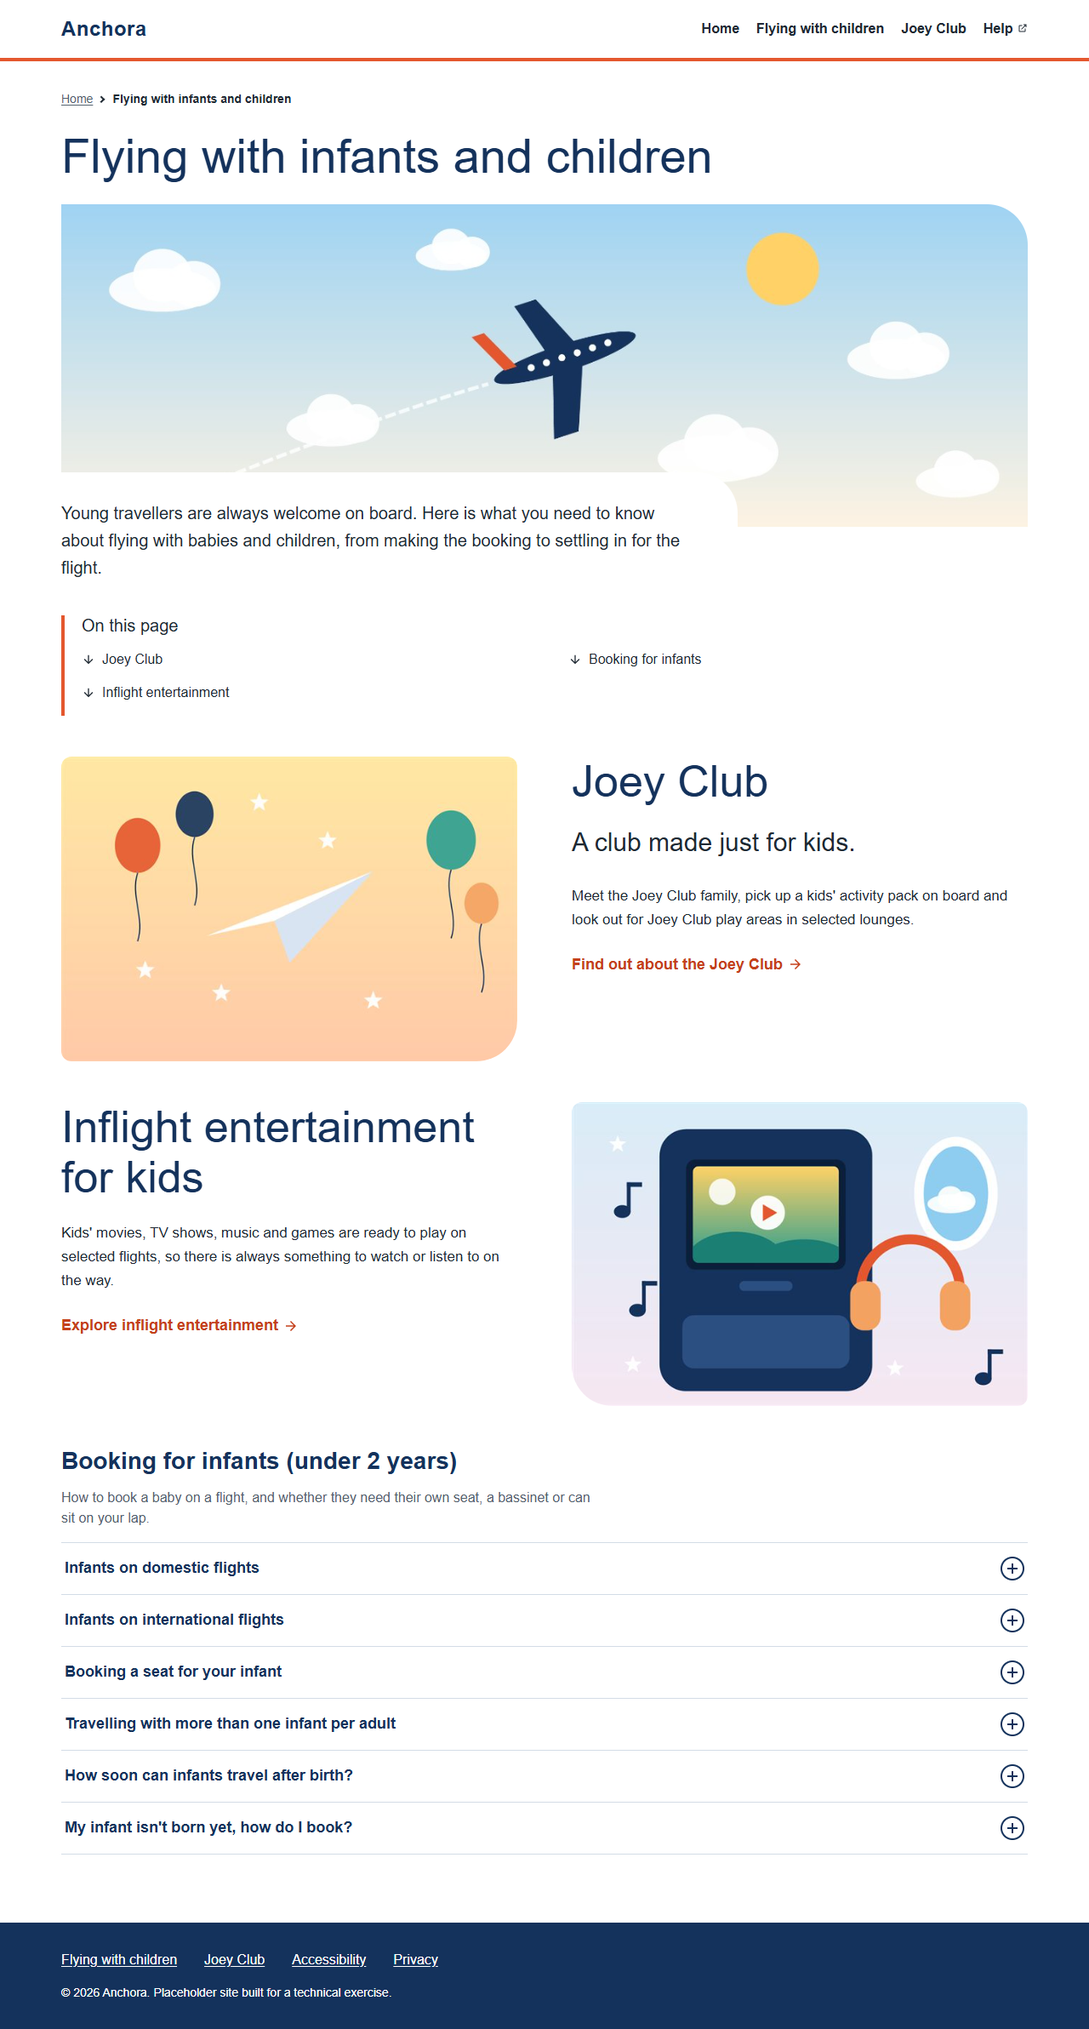
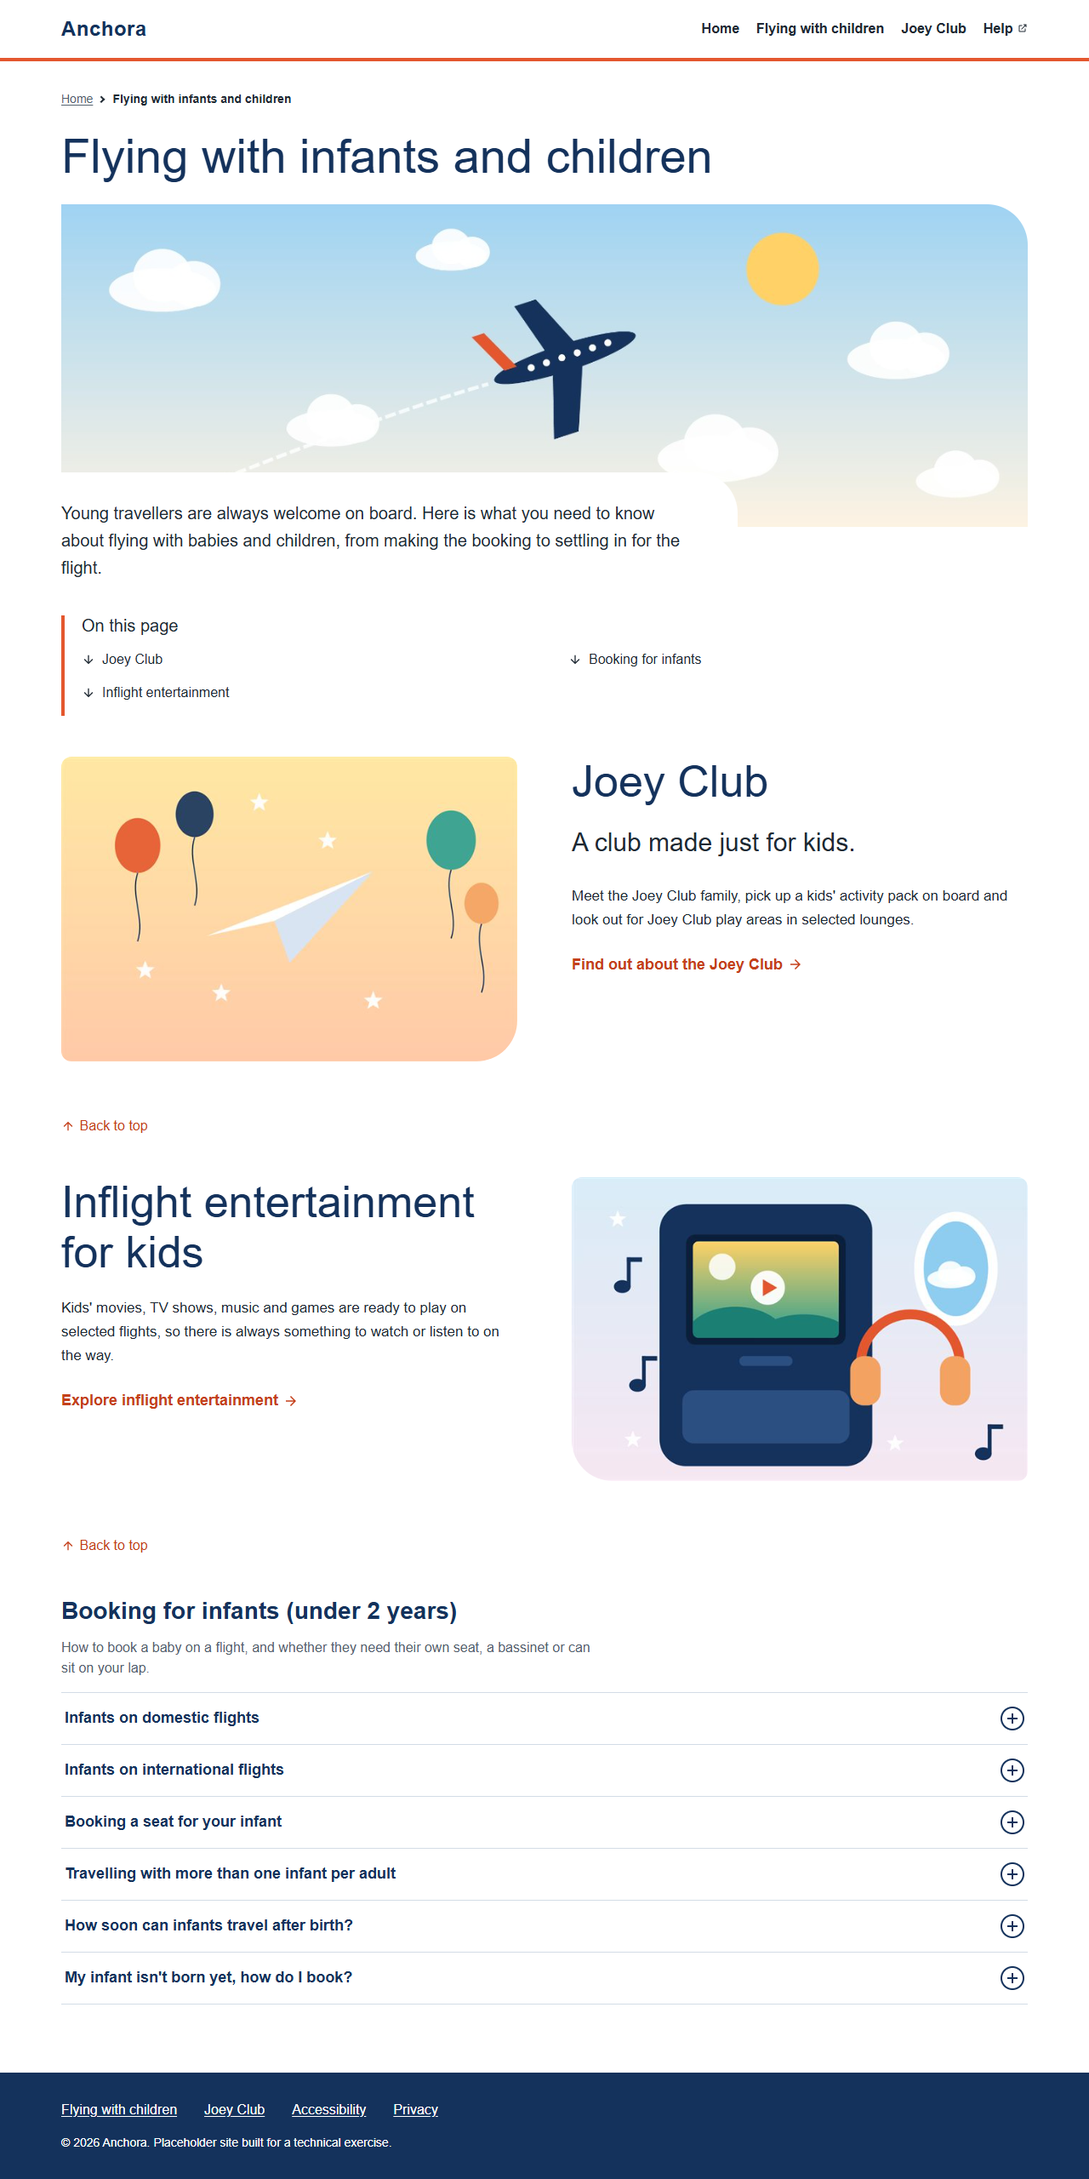
Add a Back to top link option to the teaser
Authors tick "Show a Back to top link" on the teaser's Link tab and can
change its label (default "Back to top"). The link is a plain href="#top"
under both columns, so no JavaScript is needed. Both teasers on the
example page have it on. Adds 3 model tests (46 in total) and updates the
README, AUTHORING guide and screenshots.

diff --git a/ui.frontend/src/main/webpack/components/_teaser.scss b/ui.frontend/src/main/webpack/components/_teaser.scss
@@ -86,3 +86,27 @@
         text-decoration: underline;
     }
 }
+
+// Spans the full row under the image and text. order: 2 keeps it last when the image is on the right (order: 1).
+// href="#top" scrolls to the top of the document without any JavaScript.
+.cmp-teaser__back-to-top {
+    display: inline-flex;
+    grid-column: 1 / -1;
+    order: 2;
+    justify-self: start;
+    align-items: center;
+    gap: .35em;
+    font-size: 1rem;
+    color: $color-accent-text;
+    text-decoration: none;
+
+    &::before {
+        @include arrow-icon;
+        transform: rotate(-90deg);
+    }
+
+    &:hover {
+        color: $color-accent-text;
+        text-decoration: underline;
+    }
+}

diff --git a/ui.apps/src/main/content/jcr_root/apps/anchora/components/teaser/teaser.html b/ui.apps/src/main/content/jcr_root/apps/anchora/components/teaser/teaser.html
@@ -25,5 +25,6 @@
            target="${link.target}"
            rel="${link.rel}">${link.label}<span class="cmp-link__screen-reader-only" data-sly-test="${link.newTab}"> ${'(opens in a new tab)' @ i18n}</span></a>
     </div>
+    <a class="cmp-teaser__back-to-top" data-sly-test="${teaser.backToTop}" href="#top">${teaser.backToTopLabel}</a>
 </div>
 <sly data-sly-call="${templates.placeholder @ isEmpty=teaser.empty, classAppend='cmp-teaser'}"></sly>

diff --git a/core/src/test/java/com/anchora/aem/core/models/impl/TeaserImplTest.java b/core/src/test/java/com/anchora/aem/core/models/impl/TeaserImplTest.java
@@ -124,6 +124,27 @@ class TeaserImplTest {
     }
 
     @Test
+    void backToTopIsOffByDefault() {
+        Teaser teaser = adapt("sling:resourceType", TeaserImpl.RESOURCE_TYPE, "jcr:title", "T");
+        assertFalse(teaser.isBackToTop());
+        assertEquals("Back to top", teaser.getBackToTopLabel());
+    }
+
+    @Test
+    void backToTopUsesTheAuthoredLabel() {
+        Teaser teaser = adapt("sling:resourceType", TeaserImpl.RESOURCE_TYPE,
+                "jcr:title", "T", "backToTop", true, "backToTopLabel", " Top of page ");
+        assertTrue(teaser.isBackToTop());
+        assertEquals("Top of page", teaser.getBackToTopLabel());
+    }
+
+    @Test
+    void blankBackToTopLabelFallsBackToTheDefault() {
+        assertEquals("Back to top", adapt("sling:resourceType", TeaserImpl.RESOURCE_TYPE,
+                "jcr:title", "T", "backToTop", true, "backToTopLabel", "   ").getBackToTopLabel());
+    }
+
+    @Test
     void isEmptyWithoutTextOrImage() {
         Teaser teaser = adapt("sling:resourceType", TeaserImpl.RESOURCE_TYPE, "linkLabel", "Orphan link");
         assertTrue(teaser.isEmpty());

diff --git a/core/src/main/java/com/anchora/aem/core/models/impl/TeaserImpl.java b/core/src/main/java/com/anchora/aem/core/models/impl/TeaserImpl.java
@@ -34,6 +34,7 @@ public class TeaserImpl implements Teaser {
     private static final Set<String> ALLOWED_HEADINGS = Set.of("h2", "h3", "h4", "h5", "h6");
     static final String IMAGE_LEFT = "left";
     static final String IMAGE_RIGHT = "right";
+    static final String DEFAULT_BACK_TO_TOP_LABEL = "Back to top";
 
     @Self
     private SlingHttpServletRequest request;
@@ -70,6 +71,12 @@ public class TeaserImpl implements Teaser {
 
     @ValueMapValue
     private boolean linkNewTab;
+
+    @ValueMapValue
+    private boolean backToTop;
+
+    @ValueMapValue
+    private String backToTopLabel;
 
     private String headingElement;
     private ResponsiveImage image;
@@ -121,6 +128,16 @@ public class TeaserImpl implements Teaser {
     @Override
     public LinkItem getLink() {
         return link;
+    }
+
+    @Override
+    public boolean isBackToTop() {
+        return backToTop;
+    }
+
+    @Override
+    public String getBackToTopLabel() {
+        return StringUtils.defaultIfBlank(StringUtils.trim(backToTopLabel), DEFAULT_BACK_TO_TOP_LABEL);
     }
 
     @Override

diff --git a/core/src/main/java/com/anchora/aem/core/models/Teaser.java b/core/src/main/java/com/anchora/aem/core/models/Teaser.java
@@ -27,5 +27,11 @@ public interface Teaser {
     /** The call to action, or null when the label or target is missing. */
     LinkItem getLink();
 
+    /** True when the author ticked "Show a Back to top link" under the teaser. */
+    boolean isBackToTop();
+
+    /** Text of the Back to top link, defaulting to "Back to top". */
+    String getBackToTopLabel();
+
     boolean isEmpty();
 }

diff --git a/README.md b/README.md
@@ -55,7 +55,7 @@ This repository rebuilds the [Qantas "Flying with infants and children"](https:/
    ```
 
    This single command does the following:
-   - compiles the `core` bundle and runs its 43 unit tests (the build stops if one fails);
+   - compiles the `core` bundle and runs its 46 unit tests (the build stops if one fails);
    - downloads Node and runs `npm ci` and the webpack production build in `ui.frontend`, then copies the client libraries into `ui.apps`;
    - packages everything into `all/target/anchora.all-1.0.0-SNAPSHOT.zip` and installs it on `localhost:4502` as `admin`/`admin`.
 
@@ -165,11 +165,11 @@ All components are in `ui.apps/src/main/content/jcr_root/apps/anchora/components
 | Build | Custom; no supertype (see [Design decisions](#design-decisions)) |
 | Group | Anchora - Content |
 | Sling Model | `Teaser` → `TeaserImpl` (uses `Links` and `ResponsiveImages`) |
-| Dialog | **Text**: Title (`./jcr:title`), Subtitle (`./subtitle`, plain text), Description (`./description`, rich text: bold, italic, link, lists), Anchor ID (`./id`). **Link**: Link target (`./linkURL`, a page or an external URL), Link label (`./linkLabel`), Open in a new tab (`./linkNewTab`). **Image**: Image (`./fileReference`), Alternative text (`./alt`), Image is decorative (`./isDecorative`), Image position (`./imagePosition`: `left`, the default, or `right`). |
+| Dialog | **Text**: Title (`./jcr:title`), Subtitle (`./subtitle`, plain text), Description (`./description`, rich text: bold, italic, link, lists), Anchor ID (`./id`). **Link**: Link target (`./linkURL`, a page or an external URL), Link label (`./linkLabel`), Open in a new tab (`./linkNewTab`), Show a "Back to top" link (`./backToTop`), Back to top label (`./backToTopLabel`, default "Back to top"). **Image**: Image (`./fileReference`), Alternative text (`./alt`), Image is decorative (`./isDecorative`), Image position (`./imagePosition`: `left`, the default, or `right`). |
 | Design dialog | Title heading level (`titleType`, H2–H6) |
 | Policy | `anchora/components/teaser/policy_1575031387650` "Content Teaser": `titleType=h2` (TS-02) |
-| Markup | Heading at the policy level (only H2–H6 are accepted; anything else falls back to H2), optional subtitle `<p>`, HTML description, link with an arrow icon, `rel="noopener noreferrer"` and visually hidden "(opens in a new tab)" text when opened in a new tab, and a lazy-loaded image. The root gets `cmp-teaser--image-left` or `cmp-teaser--image-right`. |
-| Layout | Phones: image above the text. From 768 px: image and text side by side, and the image goes on the side the author chose. The image keeps its first place in the HTML; only CSS `order` moves it, and nothing in it can take focus, so the reading and tab order stay the same. The large rounded corner of the image always faces the text. |
+| Markup | Heading at the policy level (only H2–H6 are accepted; anything else falls back to H2), optional subtitle `<p>`, HTML description, link with an arrow icon, `rel="noopener noreferrer"` and visually hidden "(opens in a new tab)" text when opened in a new tab, and a lazy-loaded image. The root gets `cmp-teaser--image-left` or `cmp-teaser--image-right`. When ticked, a last `<a class="cmp-teaser__back-to-top" href="#top">` with an up-arrow icon. |
+| Layout | Phones: image above the text. From 768 px: image and text side by side, and the image goes on the side the author chose. The image keeps its first place in the HTML; only CSS `order` moves it, and nothing in it can take focus, so the reading and tab order stay the same. The large rounded corner of the image always faces the text. The Back to top link spans the full width under both columns, left-aligned. |
 
 ### Accordion – `anchora/components/accordion`
 
@@ -230,8 +230,9 @@ root (container, locked)
 | Component | Choice | Reason |
 |---|---|---|
 | Hero | **Custom** | Core has no hero. Making a Core Teaser behave like a hero (H1, jump-link list, DAM alt fallback) would take more overrides than a small model does. |
-| Teaser | **Custom, built from scratch** (TS-04) | The brief needs a narrow set of features: a policy-driven heading, simple link handling with `noopener noreferrer`, DAM alt fallback and a decorative flag. Core Teaser v2 also brings actions, pre-titles, inheriting the title and image from the linked page, and image rendering through a delegated Core Image with its own servlet. That is a lot of behaviour to override or explain for one card. The custom model is about 130 lines with 11 tests. The policy property is called `titleType`, like Core's, so switching to the Core Teaser later wouldn't need a content migration for the heading level. Trade-off: no Core data layer or Style System options on this component. |
+| Teaser | **Custom, built from scratch** (TS-04) | The brief needs a narrow set of features: a policy-driven heading, simple link handling with `noopener noreferrer`, DAM alt fallback and a decorative flag. Core Teaser v2 also brings actions, pre-titles, inheriting the title and image from the linked page, and image rendering through a delegated Core Image with its own servlet. That is a lot of behaviour to override or explain for one card. The custom model is about 150 lines with 14 tests. The policy property is called `titleType`, like Core's, so switching to the Core Teaser later wouldn't need a content migration for the heading level. Trade-off: no Core data layer or Style System options on this component. |
 | Teaser image position | **One teaser with a dialog select**, not two components and not a Style System style | It is the same card either way, so a second component would only copy code. The side is a choice about each piece of content (for example, alternating cards down the page), so it belongs in the dialog next to the image rather than in the style menu, which is for site-wide looks set up by template authors. It is also a plain property that the model checks: anything other than `right` means `left`, and that is unit tested. |
+| Teaser "Back to top" | **A teaser option (checkbox and label)**, not a separate component, and a plain `href="#top"` link | On the reference page it closes each section, so it belongs to the card. Authors tick it per teaser instead of placing and lining up an extra component. Browsers scroll to the top of the page for `#top` without any JavaScript, and the site's smooth scrolling already turns off for users who prefer reduced motion. |
 | Accordion | **Extend Core Accordion v1** (AC-07) | Core already provides what is hard to get right: the panel-container editing (Items tab, "Select panel", insert and reorder), an accessible button/region pattern with full keyboard support, and the data layer. The extension only adds the section heading and intro, and forces everything to start collapsed. Trade-off: `accordion.html` is a copy of Core's, so it must be compared again when Core is upgraded. |
 | Header / footer | **Custom components inside experience fragments**, placed by locked Core XF components in the template structure (PT-02) | Each is authored once, appears on every page from the template, and can't be edited from the page. Core Navigation was not used because it builds menus from the page tree, while this site needs a short, hand-picked list of links. |
 | Title / Text | **Core proxies with policies** | No custom behaviour needed. Policies keep H1 for the hero and limit the rich-text tools. |
@@ -248,12 +249,12 @@ mvn -pl core test          # unit tests only
 mvn clean install          # full build; also runs the tests and fails if any test fails (EN-03)
 ```
 
-There are 43 JUnit 5 tests using wcm.io AEM Mocks (`AppAemContext`), the Core Components AEM Mocks plugin, and Mockito:
+There are 46 JUnit 5 tests using wcm.io AEM Mocks (`AppAemContext`), the Core Components AEM Mocks plugin, and Mockito:
 
 | Test class | Tests | What it checks |
 |---|---|---|
 | `HeroImplTest` | 5 | Reads title, intro, image and jump links (with or without `#`, incomplete items skipped). Empty without a title. Renders with no image when the asset is missing. The jump-links heading is trimmed, and defaults to "On this page" when blank. |
-| `TeaserImplTest` | 11 | Reads authored content, including a trimmed subtitle. Image position defaults to left, and an unknown value falls back to left. Heading defaults to H2 without a policy, comes from the policy when set, and can't be made H1. New-tab external link has `noopener`. A link with no label isn't rendered. Empty, image-only and subtitle-only states. |
+| `TeaserImplTest` | 14 | Reads authored content, including a trimmed subtitle. Image position defaults to left, and an unknown value falls back to left. Heading defaults to H2 without a policy, comes from the policy when set, and can't be made H1. New-tab external link has `noopener`. A link with no label isn't rendered. Back to top is off by default, uses a trimmed authored label, and falls back to "Back to top" when the label is blank. Empty, image-only and subtitle-only states. |
 | `SectionAccordionImplTest` | 5 | Section heading and intro. Items, single-expansion and heading element are delegated to Core. All items start collapsed even when expanded items were saved. Exports its own resource type. Section fields are optional. |
 | `HeaderFooterImplTest` | 4 | Header brand, link and navigation, and defaults. Footer `{year}` replacement and the no-copyright case. |
 | `LinksTest` | 9 | Internal paths get `.html` (fragment and query kept). External, `mailto:` and blank links. `target` and `rel` for new tabs. Multifield reading, order and skipping. |
@@ -272,7 +273,7 @@ They don't test HTL output, dialogs, policies, the template, CSS, or the Core ac
 - the accordion opens and closes with Enter, Space, the arrow keys, Home and End, and has a visible focus outline;
 - no horizontal scrolling at 375 px;
 - teaser images sit above the text at 375 px and on the chosen side at 768 px and 1280 px, and changing **Image position** in the dialog moves the image;
-- every dialog opens, and each container allows only the expected components.
+- each teaser's "Back to top" link sits under both columns at the teaser's left edge at every width, and clicking it scrolls back to the top of the page;- every dialog opens, and each container allows only the expected components.
 
 `it.tests` and `ui.tests` (Cypress) are the archetype's defaults, and I didn't extend them.
 
@@ -308,7 +309,7 @@ Paths are shortened: `apps/…` means `ui.apps/src/main/content/jcr_root/apps/an
 | PT-06 | Met | All CSS comes from `ui.frontend` → `anchora.site`; no `style` attributes or `<script>` blocks in our HTL |
 | EN-01 | Met | [Archetype](#archetype); `archetype.properties` |
 | EN-02 | Met | `mvn clean install -PautoInstallSinglePackage` passes and installs. It was tested on my local SDK, which also hosts other projects, not on a brand-new instance. |
-| EN-03 | Met | `core/src/test/…/models/impl/*Test.java` (43 tests) cover every model |
+| EN-03 | Met | `core/src/test/…/models/impl/*Test.java` (46 tests) cover every model |
 | EN-04 | Met | `ui.content` ships the pages, experience fragments, template, policies and DAM images |
 | EN-05 | Met | Commits on `feature/flying-infants-children`, merged to `main` through a pull request |
 | EN-06 | Met | Checked as listed under [Testing](#testing) |
@@ -324,7 +325,7 @@ None of the optional stretch work was attempted.
 
 - **Content.** All copy is paraphrased and shortened from the reference page, not copied. The brand is "Anchora", and the images are illustrations made for this exercise. The copy hasn't been checked against any airline's actual policy.
 - **Placeholder links.** Help, Accessibility, Privacy and "contact us" point to `https://www.example.com/`. Deeper example.com paths return 404, and AEM's link checker removes links that fail, so they would disappear from the published page.
-- **Scope of the page.** Only the hero, the Joey Club and inflight entertainment teasers, and the "Booking for infants" accordion from the reference page were rebuilt. The "Back to top" link under each reference section wasn't added. From the reference hero, the information box under the jump links, the "Travel information" breadcrumb level (it would add a level to every URL), and the image running wider than the text column were also not added. The template allows only Hero, Teaser, Accordion, Title and Text, and accordion items can only be Text.
+- **Scope of the page.** Only the hero, the Joey Club and inflight entertainment teasers, and the "Booking for infants" accordion from the reference page were rebuilt. The "Back to top" link that ends each reference section is a Teaser option, so the accordion section doesn't have one. From the reference hero, the information box under the jump links, the "Travel information" breadcrumb level (it would add a level to every URL), and the image running wider than the text column were also not added. The template allows only Hero, Teaser, Accordion, Title and Text, and accordion items can only be Text.
 - **Headings.** The section heading is H2 and item titles are fixed at H3 by policy. Authors don't choose heading levels.
 - **Collapsed state.** All items always start collapsed, so the Core "Expanded items" settings are hidden rather than ignored silently.
 - **Site path.** `/content/anchora/us/en`, from the archetype defaults (see [Archetype](#archetype)).

diff --git a/AUTHORING.md b/AUTHORING.md
@@ -121,8 +121,12 @@ On tablets and larger screens the image and the text sit side by side. On phones
 | Link | **Link target** | Pick a page on this site, or type a full web address starting with `https://`. |
 | Link | **Link label** | The link text. Say where the link goes, for example "Find out about the Joey Club", not "Click here". **The link isn't shown while this is empty.** |
 | Link | **Open in a new tab** | Use only for other websites. Screen readers announce "(opens in a new tab)" for these links. |
+| Link | **Show a "Back to top" link under the teaser** | Adds a small "↑ Back to top" link below the image and text that takes readers back to the top of the page. Use it on long pages, for example at the end of each section. |
+| Link | **Back to top label** | Optional. Leave it blank to use "Back to top". Only shown when the box above is ticked. |
 | Image | **Image**, **Alternative text**, **Image is decorative** | As for the Hero. Use an image at least **1280 pixels wide**. The whole image is shown, never cropped. |
 | Image | **Image position** | **Left** (the default) or **Right**: which side of the text the image goes on, on tablets and larger screens. To alternate cards down a page, set every second teaser to **Right**. |
+
+![Teaser dialog, Link tab, with the Back to top fields](docs/images/dialog-teaser-link.png)
 
 ![Teaser dialog, Image tab, with the Image position field](docs/images/dialog-teaser-image.png)
 
@@ -253,6 +257,7 @@ Changes you make to the page later are only visible on the live site after you p
 | Problem | What to check |
 |---|---|
 | The teaser link is missing | Fill in **Link label** as well as **Link target**. |
+| A teaser has no "Back to top" link | Tick **Show a "Back to top" link under the teaser** on the **Link** tab. A label on its own doesn't show the link. |
 | A teaser image is above the text even though **Image position** is **Right** | That's expected on phones and narrow windows. The image moves to the side from tablet width up. |
 | A jump link doesn't scroll anywhere | The **Anchor** must exactly match the Teaser's **Anchor ID** or the Accordion's **ID** (without the `#`). |
 | The Hero doesn't show on the published page | Give it a **Title**. |
